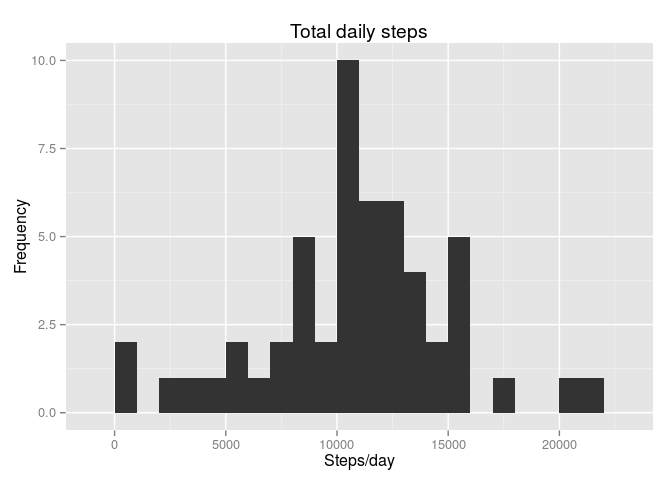
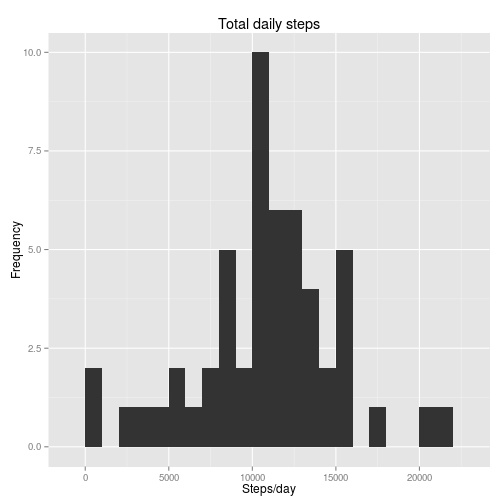
Fixes before submission.

diff --git a/PA1_template.md b/PA1_template.md
@@ -1,4 +1,11 @@
-# Reproducible Research: Peer Assessment 1
+---
+title: "Reproducible Research: Peer Assessment 1"
+output: 
+  html_document:
+    keep_md: yes
+    theme: united
+    toc: yes
+---
 ## Overview
 I submit this file as part of Peer Assessment 1 for the Coursera course *Reproducible Research*.
 
@@ -47,6 +54,7 @@ require('ggplot2')
 
 ```
 ## Loading required package: ggplot2
+## Need help? Try the ggplot2 mailing list: http://groups.google.com/group/ggplot2.
 ```
 
 ```r
@@ -78,11 +86,11 @@ sessionInfo()
 ## [1] stats     graphics  grDevices utils     datasets  methods   base     
 ## 
 ## other attached packages:
-## [1] lubridate_1.3.3 ggplot2_1.0.1   dplyr_0.4.3    
+## [1] lubridate_1.3.3 ggplot2_1.0.1   dplyr_0.4.3     knitr_1.11     
 ## 
 ## loaded via a namespace (and not attached):
-##  [1] Rcpp_0.12.1      knitr_1.11       magrittr_1.5     MASS_7.3-44     
-##  [5] munsell_0.4.2    colorspace_1.2-6 R6_2.1.1         stringr_1.0.0   
+##  [1] Rcpp_0.12.1      magrittr_1.5     MASS_7.3-44      munsell_0.4.2   
+##  [5] colorspace_1.2-6 R6_2.1.1         stringr_1.0.0    highr_0.5.1     
 ##  [9] plyr_1.8.3       tools_3.2.2      parallel_3.2.2   grid_3.2.2      
 ## [13] gtable_0.1.2     DBI_0.3.1        htmltools_0.2.6  yaml_2.1.13     
 ## [17] assertthat_0.1   digest_0.6.8     reshape2_1.4.1   formatR_1.2.1   
@@ -196,7 +204,7 @@ qplot(date, totalSteps, data=stepsPerDay, geom="bar", stat="identity") +
 ## Warning: Removed 8 rows containing missing values (position_stack).
 ```
 
-![](figure/unnamed-chunk-9-1.png) 
+![plot of chunk unnamed-chunk-9](figure/unnamed-chunk-9-1.png) 
 
 It is clear that the warning from 8 days are completely missing, which is as expected from the `summary` output.
 
@@ -208,7 +216,7 @@ qplot(totalSteps, data=stepsPerDay, geom = "histogram", binwidth=1000) +
      labs(title="Total daily steps", x="Steps/day", y="Frequency")
 ```
 
-![](figure/unnamed-chunk-10-1.png) 
+![plot of chunk unnamed-chunk-10](figure/unnamed-chunk-10-1.png) 
 
 The histogram suggests significant variation in the number of steps per day, but we cannot yet distinguish whether this is because of true variation by day or just because some days have a lot of missing data.
 
@@ -228,7 +236,7 @@ qplot(minute, meanSteps, data=stepsPer5MinuteInterval, geom="line", stat="identi
     labs(title="Steps by time of day", x="Minutes past midnight", y="Mean steps in 5 min interval")
 ```
 
-![](figure/unnamed-chunk-12-1.png) 
+![plot of chunk unnamed-chunk-12](figure/unnamed-chunk-12-1.png) 
 
 Translating minutes past midnight into hours, it looks like this person wakes up about 400 minutes into the day--about 6:30am--and goes to sleep around 1400 minutes into the day--about 11:30pm. Both of these values are in line with what we might expect. Note how much better this plot looks compared with this next one using `interval` as the x variable. 
 
@@ -239,7 +247,7 @@ qplot(interval, meanSteps, data=stepsPerOriginalInterval, geom="line", stat="ide
     labs(title="Steps by original interval value", x="Original interval value", y="Mean steps per interval")
 ```
 
-![](figure/unnamed-chunk-13-1.png) 
+![plot of chunk unnamed-chunk-13](figure/unnamed-chunk-13-1.png) 
 
 The artifactual jumps in the "Steps by orginal interval value" plot are easily seen.
 
@@ -358,7 +366,7 @@ qplot(date, totalSteps, data=stepsPerDayImputed, geom="bar", stat="identity") +
     labs(title="Steps by date (imputed)", x="Date", y="Total daily steps")
 ```
 
-![](figure/unnamed-chunk-22-1.png) 
+![plot of chunk unnamed-chunk-22](figure/unnamed-chunk-22-1.png) 
 
 The days which had no data now have the same value imputed to them (note for example, the first and last days of the series). The first day's data is completely imputed, so the red line shows how many steps we expected on a day in which we had no data. If you examine this plot closely, you can identify all 8 of the days that had no data.
 
@@ -370,7 +378,7 @@ qplot(totalSteps, data=stepsPerDayImputed, geom = "histogram", binwidth=1000) +
      labs(title="Total daily steps (imputed)", x="Steps/day", y="Frequency")
 ```
 
-![](figure/unnamed-chunk-23-1.png) 
+![plot of chunk unnamed-chunk-23](figure/unnamed-chunk-23-1.png) 
 
 The difference between this and the original histogram is barely noticable.
 
@@ -389,7 +397,7 @@ qplot(minute, meanSteps, data=stepsPer5MinuteIntervalImputed, geom="line", stat=
     labs(title="Steps by time of day (imputed)", x="Minutes past midnight", y="Mean steps in 5 min interval")
 ```
 
-![](figure/unnamed-chunk-25-1.png) 
+![plot of chunk unnamed-chunk-25](figure/unnamed-chunk-25-1.png) 
 
 Not only does this daily activity plot from the imputed data look a lot like the same plot from the analytic data, a short calculation shows that, up to rounding error, `stepsPer5MinuteIntervalImputed$steps` and `stepsPer5MinuteInterval$steps` are virtually the same.
 
@@ -433,6 +441,6 @@ ggplot(stepsPer5MinuteIntervalAugmented, aes(x=minute, y=meanSteps, color=weeken
     labs(title="Steps by time of day (weekend vs non-weekend)", x="Minutes past midnight", y="Mean steps in 5 min interval")
 ```
 
-![](figure/unnamed-chunk-29-1.png) 
+![plot of chunk unnamed-chunk-29](figure/unnamed-chunk-29-1.png) 
 
 These data suggest that the individual tends to wake up later on the weekends and gets less exercise in the morning on these days. Also, there doesn't seem to much difference in bedtime between weekend and non-weekend days.
